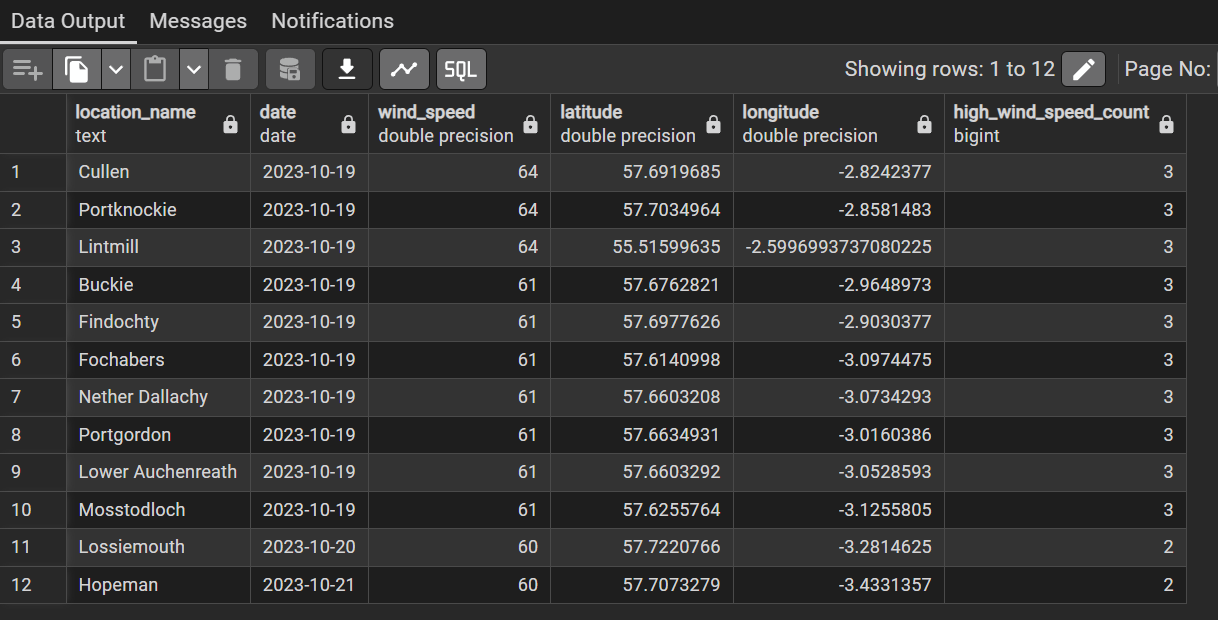
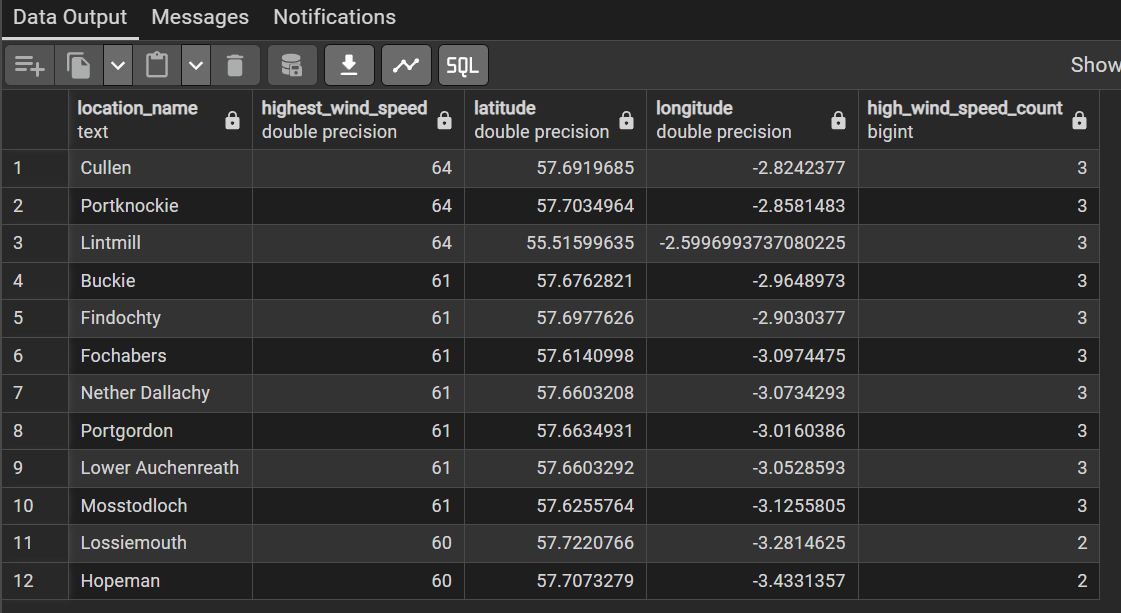
docs: Updated last hws query & image

diff --git a/explorations/highest-wind-speed/hws-query-process.md b/explorations/highest-wind-speed/hws-query-process.md
@@ -176,15 +176,14 @@ I realised here that the query I had entered was much faster even considering th
 
 I executed `EXPLAIN(ANALYZE, VERBOSE)` and it showed that my subquery from the previous execution only filtered 474 rows before the majority of the rest of the query…compared to 936k from this most recent query!
 
-Anyway, final query for this question, lets say we only want to look at ones that actually had more than one instance of very high wind speed:
+Anyway, final query for this question, lets say we only want to look at locations that actually had more than one instance of very high wind speed. We also need to omit the date column as it's now misleading, and to give an alias to wind_speed for this query's legibility:
 
 ```sql
 SELECT *
 FROM (
     SELECT DISTINCT ON (location_name)
         location_name,
-        date,
-        wind_speed,
+        wind_speed AS highest_wind_speed,
         latitude,
         longitude,
         COUNT(*) OVER (PARTITION BY location_name) AS high_wind_speed_count
@@ -194,7 +193,7 @@ FROM (
     ORDER BY location_name, wind_speed DESC
 ) AS top_wind_speed_per_location
 WHERE high_wind_speed_count > 1
-ORDER BY wind_speed DESC, high_wind_speed_count DESC;
+ORDER BY highest_wind_speed DESC, high_wind_speed_count DESC;
 ```
 <i>Query execution time</i> <b>0.1</b> <i>sec </i>
 
